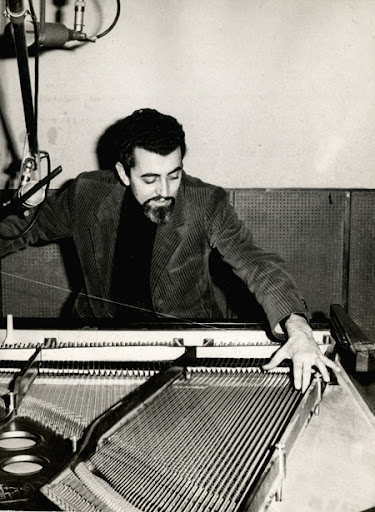
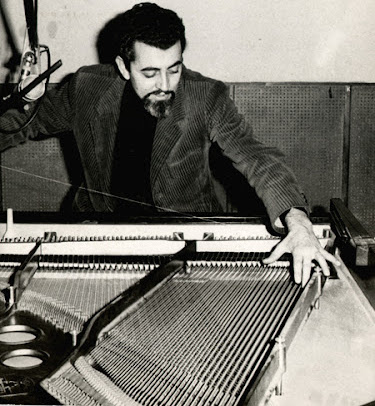
Fix_2 URL immagine sfondo homepage

diff --git a/assets/main.scss b/assets/main.scss
@@ -115,10 +115,10 @@
   position: absolute;
   inset: 0;
   background: linear-gradient(
-    to right,
-    rgb(0, 0, 0) 40%,
-    rgba(0, 0, 0, 0.5) 70%,
-    rgba(0, 0, 0, 0.1) 100%
+    to left,
+    rgba(0, 0, 0, 0.75) 25%,
+    rgba(0, 0, 0, 0.5) 50%,
+    rgba(0, 0, 0, 0) 100%
   );
 }
 